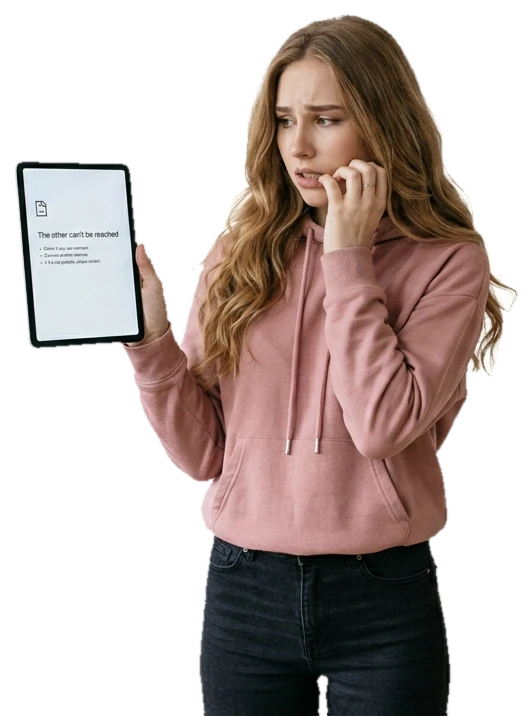
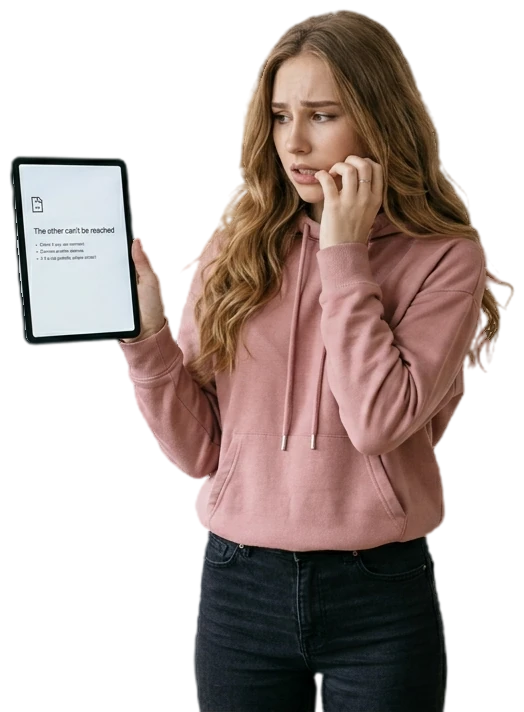
Add Facing Issues section and free audit popup

diff --git a/src/components/ChatAssistant.tsx b/src/components/ChatAssistant.tsx
@@ -90,7 +90,7 @@ export function ChatAssistant() {
 
 
   return (
-    <div className="chat-widget fixed right-5 bottom-24 z-[85] flex flex-col items-end gap-3">
+    <div className="chat-widget fixed right-5 bottom-5 z-[85] flex flex-col items-end gap-3">
       {open && <section className="chat-panel flex h-[min(560px,70vh)] w-[min(370px,calc(100vw-2.5rem))] flex-col overflow-hidden rounded-3xl border border-line bg-bg-surface shadow-[0_24px_80px_rgba(0,0,0,.5)]" aria-label="CompanyFlow chat assistant">
         <header className="flex items-center gap-3 border-b border-line p-4">
           <div className="flex h-10 w-10 items-center justify-center rounded-full bg-burgundy/20 text-burgundy-light"><Bot className="h-5 w-5" /></div>

diff --git a/src/index.css b/src/index.css
@@ -493,7 +493,7 @@ button, a { -webkit-tap-highlight-color: transparent; }
 
   .chat-widget {
     right: max(.875rem, env(safe-area-inset-right));
-    bottom: calc(4.75rem + env(safe-area-inset-bottom));
+    bottom: calc(.875rem + env(safe-area-inset-bottom));
     gap: .5rem;
     z-index: 85;
   }
@@ -529,13 +529,6 @@ button, a { -webkit-tap-highlight-color: transparent; }
     width: 3.25rem;
     height: 3.25rem;
     flex: 0 0 3.25rem;
-  }
-
-  .back-to-top {
-    right: max(.875rem, env(safe-area-inset-right));
-    bottom: calc(.875rem + env(safe-area-inset-bottom));
-    width: 2.875rem;
-    height: 2.875rem;
   }
 
   /* Make small controls comfortable to tap without enlarging the desktop UI. */

diff --git a/src/App.tsx b/src/App.tsx
@@ -7,7 +7,6 @@ import { Cursor } from '@/components/Cursor';
 import { FluidBackground } from '@/components/FluidBackground';
 import { Header } from '@/components/Header';
 import { Footer } from '@/components/Footer';
-import { BackToTop } from '@/components/BackToTop';
 import { WhatsAppWidget } from '@/components/WhatsAppWidget';
 import { ChatAssistant } from '@/components/ChatAssistant';
 import { HomePage } from '@/pages/HomePage';
@@ -110,7 +109,6 @@ export default function App() {
         <Page />
       </main>
       <Footer />
-      <BackToTop />
       <WhatsAppWidget />
       <ChatAssistant />
     </ThemeProvider>

diff --git a/src/components/WhyProjectsStall.tsx b/src/components/WhyProjectsStall.tsx
@@ -107,8 +107,8 @@ function HeroCard() {
           <img
             src="/stressed-woman-laptop.webp"
             alt="Worried woman holding a tablet that shows a page that can't be reached"
-            width={532}
-            height={716}
+            width={524}
+            height={712}
             loading="lazy"
             decoding="async"
             className="wps-woman pointer-events-none absolute bottom-0 right-0 z-[2] h-[76%] w-auto max-w-[80%] object-contain object-bottom sm:right-[6%] sm:h-[84%] lg:right-0"
